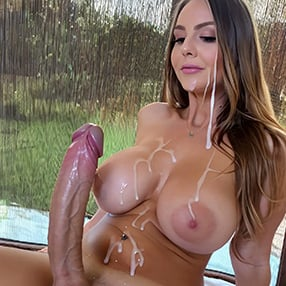
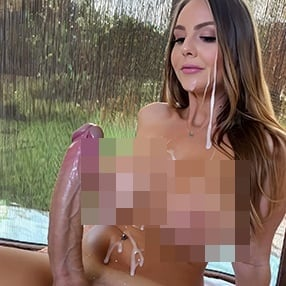
Added folder recognition for image urls and added command line parameters to save them in the same folder

diff --git a/single_image_processor.py b/single_image_processor.py
@@ -174,6 +174,38 @@ def show_available_labels():
     print("=" * 50)
     print("Usage: --custom-labels FEMALE_BREAST_EXPOSED BUTTOCKS_EXPOSED")
 
+def extract_folder_from_url(url):
+    """
+    Extract the folder path from a WordPress URL.
+    
+    Args:
+        url (str): WordPress URL (e.g., https://www.mrporngeek.com/wp-content/uploads/screenshots/image.jpg)
+        
+    Returns:
+        str: Folder path (e.g., 'screenshots', 'images', etc.) or 'screenshots' as default
+    """
+    try:
+        from urllib.parse import urlparse
+        parsed = urlparse(url)
+        path = parsed.path
+        
+        # Look for wp-content/uploads/ in the path
+        if '/wp-content/uploads/' in path:
+            # Extract the part after wp-content/uploads/
+            parts = path.split('/wp-content/uploads/')
+            if len(parts) > 1:
+                folder_part = parts[1]
+                # Get the folder name (first part before the filename)
+                folder_parts = folder_part.split('/')
+                if len(folder_parts) > 1:
+                    return folder_parts[0]  # Return the folder name
+        
+        # Default fallback
+        return 'screenshots'
+    except Exception as e:
+        print(f"Warning: Could not extract folder from URL {url}: {e}")
+        return 'screenshots'
+
 def download_image(url, download_dir="downloads"):
     """
     Download an image from URL to local directory.
@@ -267,7 +299,7 @@ def pixelate_region_cv(img, x1, y1, x2, y2, pixel_size):
         print(f"Error pixelating region: {e}")
         return img
 
-def process_single_image_enhanced(input_path, output_path, nudenet_detector, yolo_model, image_type=None, force=False, draw_rectangles=False, draw_labels=False, disable_sliding=False):
+def process_single_image_enhanced(input_path, output_path, nudenet_detector, yolo_model, image_type=None, force=False, draw_rectangles=False, draw_labels=False, disable_sliding=False, save_to_folder=True, extracted_folder=None):
     """
     Process a single image with enhanced detection methods.
     
@@ -281,6 +313,8 @@ def process_single_image_enhanced(input_path, output_path, nudenet_detector, yol
         draw_rectangles (bool): Whether to draw rectangle borders for debugging
         draw_labels (bool): Whether to draw labels on rectangles for debugging
         disable_sliding (bool): Whether to disable sliding window method
+        save_to_folder (bool): If True, save to wp-content/uploads/screenshots/, if False save to wp-content/uploads/blur/
+        extracted_folder (str): Folder extracted from URL (e.g., 'screenshots', 'images')
         
     Returns:
         dict: Processing result
@@ -379,11 +413,20 @@ def process_single_image_enhanced(input_path, output_path, nudenet_detector, yol
         wordpress_files = []
         if image_type and image_type != 'category_thumb':
             base_filename = os.path.splitext(os.path.basename(output_path))[0]
+            # Extract folder from URL if it's a URL and save_to_folder is True
+            extracted_folder = None
+            if save_to_folder and extracted_folder is None:
+                # Try to extract from the original image_path if it's a URL
+                if input_path.startswith(('http://', 'https://')):
+                    extracted_folder = extract_folder_from_url(input_path)
+            
             wordpress_files = create_wordpress_versions(
                 input_path, 
                 output_path, 
                 base_filename, 
-                image_type
+                image_type,
+                save_to_folder,
+                extracted_folder
             )
             print(f"  Created {len(wordpress_files)} WordPress-sized images")
         
@@ -490,7 +533,7 @@ def resize_image(image, target_size, crop=False):
         
         return new_image
 
-def create_wordpress_versions(original_image_path, processed_image_path, base_filename, image_type=None):
+def create_wordpress_versions(original_image_path, processed_image_path, base_filename, image_type=None, save_to_folder=True, extracted_folder=None):
     """
     Create WordPress-sized images from the processed image based on image type.
     
@@ -499,6 +542,8 @@ def create_wordpress_versions(original_image_path, processed_image_path, base_fi
         processed_image_path (str): Path to processed image
         base_filename (str): Base filename without extension
         image_type (str): Type of image ('review_full_image', 'screenshot_full_url', etc.)
+        save_to_folder (bool): If True, save to wp-content/uploads/screenshots/, if False save to wp-content/uploads/blur/
+        extracted_folder (str): Folder extracted from URL (e.g., 'screenshots', 'images')
         
     Returns:
         List of created file paths
@@ -562,16 +607,16 @@ def create_wordpress_versions(original_image_path, processed_image_path, base_fi
         else:
             filename = f"{base_filename}-{width}x{height}{file_extension}"
         
-        # Determine output directory based on image type
-        if image_type == 'review_full_image':
-            # Save in wp-content/uploads/screenshots
-            wp_upload_dir = os.path.join('wp-content', 'uploads', 'screenshots')
-        elif image_type == 'category_thumb':
-            # Save in wp-content/uploads/cthumbnails
-            wp_upload_dir = os.path.join('wp-content', 'uploads', 'cthumbnails')
+        # Determine output directory based on save_to_folder parameter and extracted folder
+        if save_to_folder:
+            # Use extracted folder if provided, otherwise default to screenshots
+            if extracted_folder:
+                wp_upload_dir = os.path.join('wp-content', 'uploads', extracted_folder)
+            else:
+                wp_upload_dir = os.path.join('wp-content', 'uploads', 'screenshots')
         else:
-            # Save in wp-content/uploads
-            wp_upload_dir = os.path.join('wp-content', 'uploads')
+            # Save in wp-content/uploads/blur
+            wp_upload_dir = os.path.join('wp-content', 'uploads', 'blur')
         
         # Create output directory
         os.makedirs(wp_upload_dir, exist_ok=True)
@@ -584,7 +629,7 @@ def create_wordpress_versions(original_image_path, processed_image_path, base_fi
     
     return created_files
 
-def single_image_processor(image_path, output_dir="processed_images", image_type=None, force=False, draw_rectangles=False, draw_labels=False, disable_yolo=False, disable_sliding=False, disable_label_filter=False, custom_labels=None):
+def single_image_processor(image_path, output_dir="processed_images", image_type=None, force=False, draw_rectangles=False, draw_labels=False, disable_yolo=False, disable_sliding=False, disable_label_filter=False, custom_labels=None, save_to_folder=True):
     """
     Process a single image (URL or file path) using enhanced detection.
     
@@ -599,6 +644,7 @@ def single_image_processor(image_path, output_dir="processed_images", image_type
         disable_sliding (bool): Disable sliding window method for this command
         disable_label_filter (bool): Disable label type filtering for this command
         custom_labels (list): List of custom labels to filter for (e.g., ['FEMALE_BREAST_EXPOSED', 'BUTTOCKS_EXPOSED'])
+        save_to_folder (bool): If True, save to wp-content/uploads/screenshots/, if False save to wp-content/uploads/blur/
         
     Returns:
         dict: Processing summary
@@ -608,6 +654,7 @@ def single_image_processor(image_path, output_dir="processed_images", image_type
         print(f"Input image: {image_path}")
         print(f"Output directory: {output_dir}")
         print(f"Image type: {image_type}")
+        print(f"Save to folder: {save_to_folder}")
         print(f"Force reprocessing: {force}")
         print(f"Draw rectangles: {draw_rectangles}")
         print(f"Draw labels: {draw_labels}")
@@ -728,14 +775,26 @@ def single_image_processor(image_path, output_dir="processed_images", image_type
             shutil.copy2(local_image_path, backup_path)
             print(f"  📁 Backed up to: {backup_path}")
         
-        # Determine output path - save directly in wp-content/uploads folder
+        # Determine output path based on save_to_folder parameter and URL structure
         filename = os.path.basename(local_image_path)
         
         # Use original filename (preserve case and original name)
         new_filename = filename
         
-        # Save in wp-content/uploads
-        wp_upload_dir = os.path.join('wp-content', 'uploads')
+        # Determine output directory based on save_to_folder parameter and URL
+        if save_to_folder:
+            # Extract folder from URL if it's a URL, otherwise use default
+            if is_url:
+                extracted_folder = extract_folder_from_url(image_path)
+                wp_upload_dir = os.path.join('wp-content', 'uploads', extracted_folder)
+                print(f"  Extracted folder from URL: {extracted_folder}")
+            else:
+                # For local files, use default screenshots folder
+                wp_upload_dir = os.path.join('wp-content', 'uploads', 'screenshots')
+        else:
+            # Save in wp-content/uploads/blur
+            wp_upload_dir = os.path.join('wp-content', 'uploads', 'blur')
+        
         output_path = os.path.join(wp_upload_dir, new_filename)
         
         print(f"  Output directory: {wp_upload_dir}")
@@ -758,6 +817,11 @@ def single_image_processor(image_path, output_dir="processed_images", image_type
         
         # Process the image with enhanced detection (no resizing)
         print(f"Processing image: {filename}")
+        # Extract folder from URL if it's a URL and save_to_folder is True
+        extracted_folder = None
+        if save_to_folder and is_url:
+            extracted_folder = extract_folder_from_url(image_path)
+        
         result = process_single_image_enhanced(
             local_image_path, 
             output_path, 
@@ -767,7 +831,9 @@ def single_image_processor(image_path, output_dir="processed_images", image_type
             force,
             draw_rectangles,
             draw_labels,
-            disable_sliding
+            disable_sliding,
+            save_to_folder,
+            extracted_folder
         )
         
         if result['success']:
@@ -813,7 +879,7 @@ def main():
     Main function with command-line argument parsing.
     """
     parser = argparse.ArgumentParser(description='Standalone Single Image Processor with NudeNet and YOLO')
-    parser.add_argument('--image-path', required=True, help='Path to input image file or URL')
+    parser.add_argument('--image-path', required=False, help='Path to input image file or URL')
     parser.add_argument('--image-type', help='Type of image (screenshot_full_url, review_full_image, category_thumb, etc.)')
     parser.add_argument('--output-dir', default='processed_images', help='Output directory for processed images')
     parser.add_argument('--force', action='store_true', help='Force reprocessing even if output already exists')
@@ -824,6 +890,8 @@ def main():
     parser.add_argument('--draw-labels', action='store_true', help='Draw labels on rectangles (requires --draw-rectangles)')
     parser.add_argument('--custom-labels', nargs='+', help='Custom labels to filter for (e.g., FEMALE_BREAST_EXPOSED BUTTOCKS_EXPOSED)')
     parser.add_argument('--show-labels', action='store_true', help='Show all available NudeNet labels and exit')
+    parser.add_argument('--save-to-folder', action='store_true', help='Save to wp-content/uploads/screenshots/ (default)')
+    parser.add_argument('--save-to-blur', action='store_true', help='Save to wp-content/uploads/blur/ (overrides --save-to-folder)')
     
     args = parser.parse_args()
     
@@ -832,11 +900,28 @@ def main():
         show_available_labels()
         return 0
     
+    # Check if image-path is provided (required unless showing labels)
+    if not args.image_path:
+        parser.error("--image-path is required unless using --show-labels")
+    
     # Update global YOLO configuration based on command line argument
     global ENABLE_YOLO_DETECTION
     if args.disable_yolo:
         ENABLE_YOLO_DETECTION = False
         print("⚠ YOLO detection disabled via command line argument")
+    
+    # Determine save_to_folder based on command line arguments
+    save_to_folder = True  # Default
+    if args.save_to_blur:
+        save_to_folder = False
+        print("📁 Will save to wp-content/uploads/blur/")
+    else:
+        # Extract folder from URL if it's a URL
+        if args.image_path and args.image_path.startswith(('http://', 'https://')):
+            extracted_folder = extract_folder_from_url(args.image_path)
+            print(f"📁 Will save to wp-content/uploads/{extracted_folder}/")
+        else:
+            print("📁 Will save to wp-content/uploads/screenshots/")
     
     result = single_image_processor(
         image_path=args.image_path,
@@ -848,7 +933,8 @@ def main():
         disable_yolo=args.disable_yolo,
         disable_sliding=args.disable_sliding,
         disable_label_filter=args.disable_label_filter,
-        custom_labels=args.custom_labels
+        custom_labels=args.custom_labels,
+        save_to_folder=save_to_folder
     )
     
     if not result['success']:
